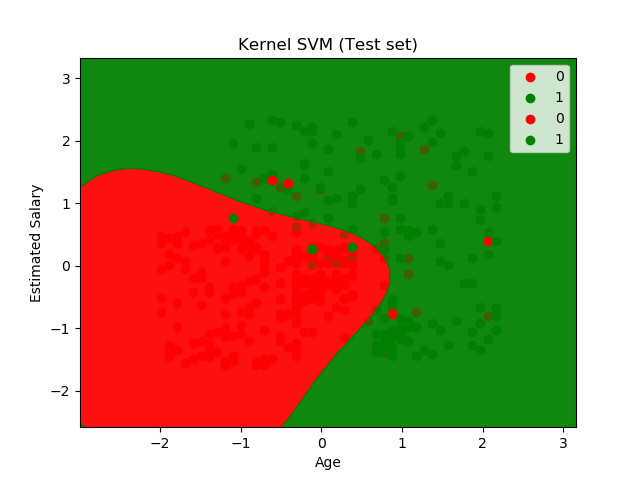
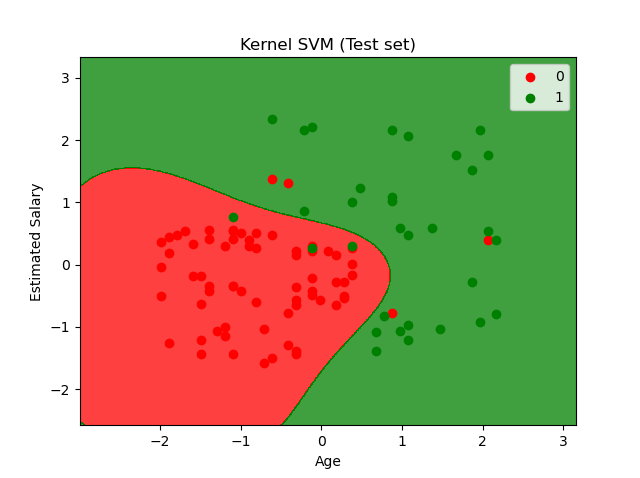
[fix] updated figures and model renaming

diff --git a/3 - Classification/4 - Kernel SVM/kernel_svm.py b/3 - Classification/4 - Kernel SVM/kernel_svm.py
@@ -11,7 +11,7 @@ X = dataset.iloc[:, [2, 3]].values
 y = dataset.iloc[:, 4].values
 
 # Splitting the dataset into the Training set and Test set
-from sklearn.cross_validation import train_test_split
+from sklearn.model_selection import train_test_split
 X_train, X_test, y_train, y_test = train_test_split(X, y, test_size = 0.25, random_state = 0)
 
 # Feature Scaling
